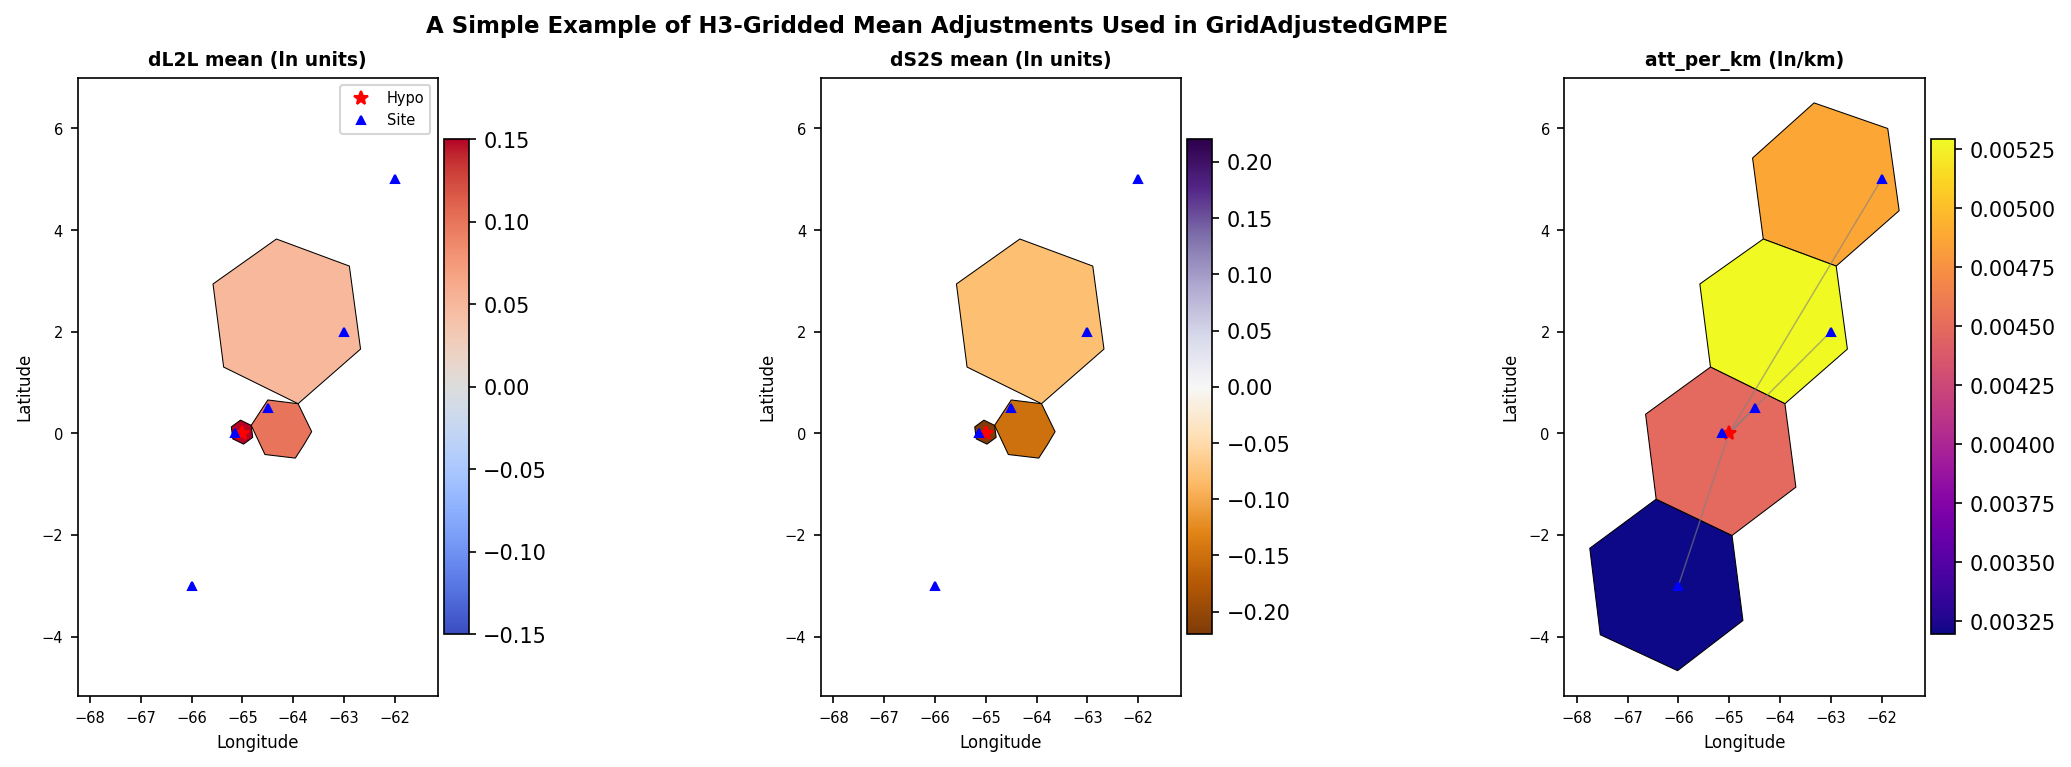
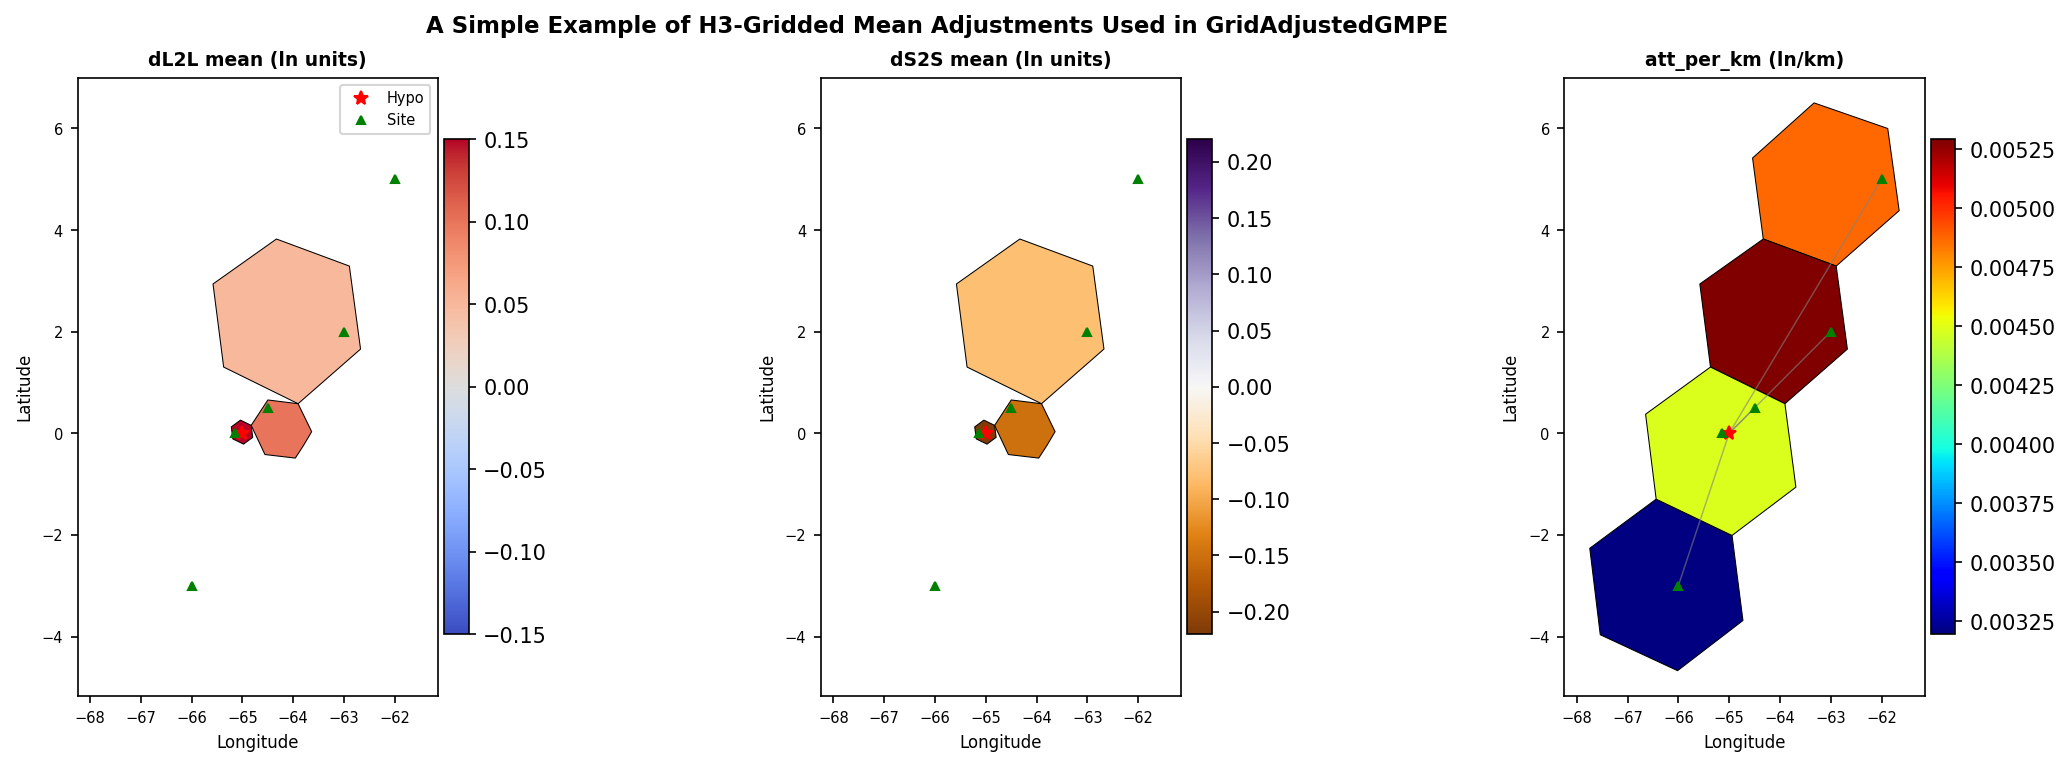
fix colors

Changed region(s): [[0.7726, 0.1199, 0.958, 0.8096]]

diff --git a/openquake/qa_tests_data/classical/case_11/README.md b/openquake/qa_tests_data/classical/case_11/README.md
@@ -35,7 +35,7 @@ exists for this GMM sigma correction too in the hdf5):
 | centre | `dS2S`-based mean ground-motion correction per h3 cell (site lookup) |
 | right | `att_per_km`-based mean ground-motion correction per travel path (raytracing) |
 
-Red star = hypocentre; blue triangles = sites in the site model.
+Red star = hypocentre; green triangles = sites in the site model.
 
 ## Additional Information
 